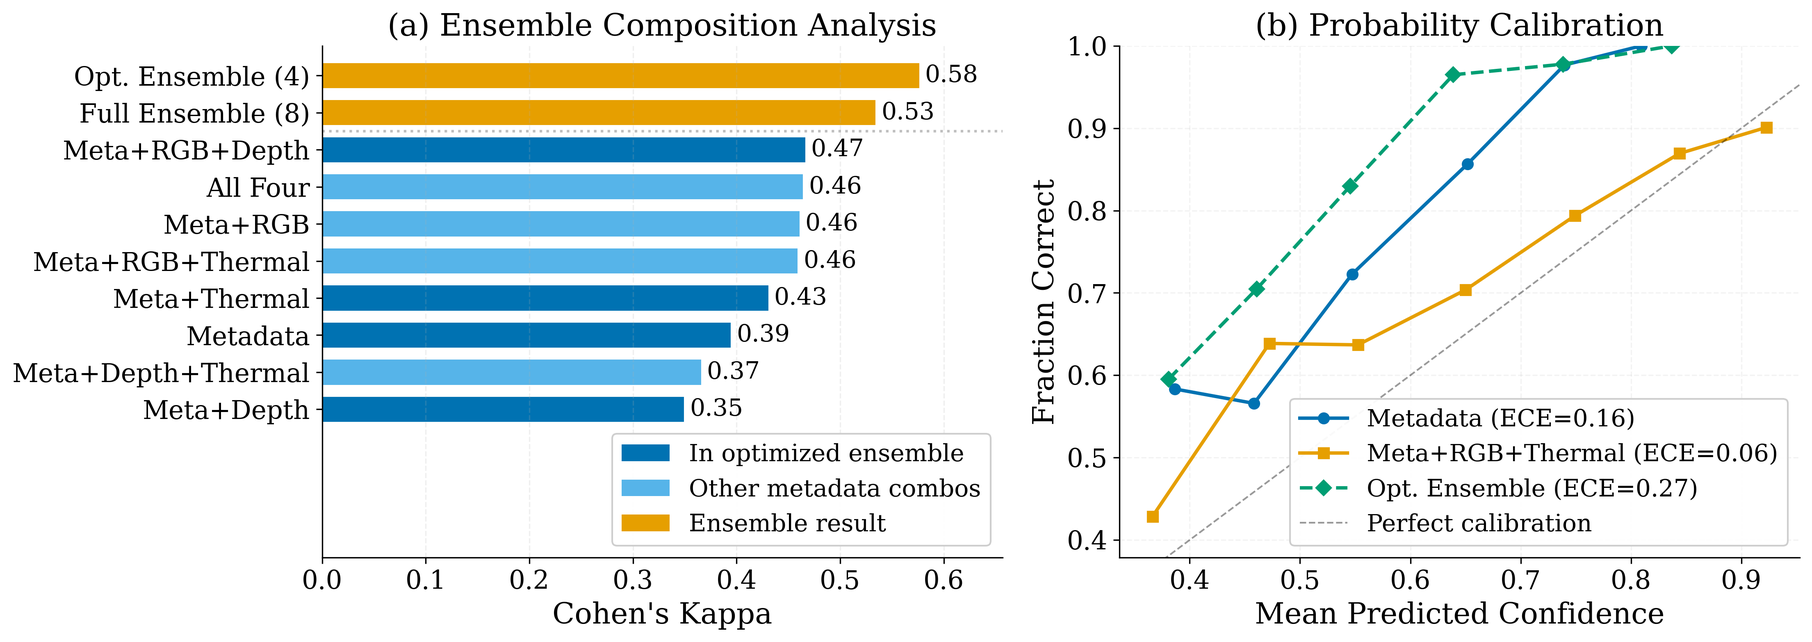
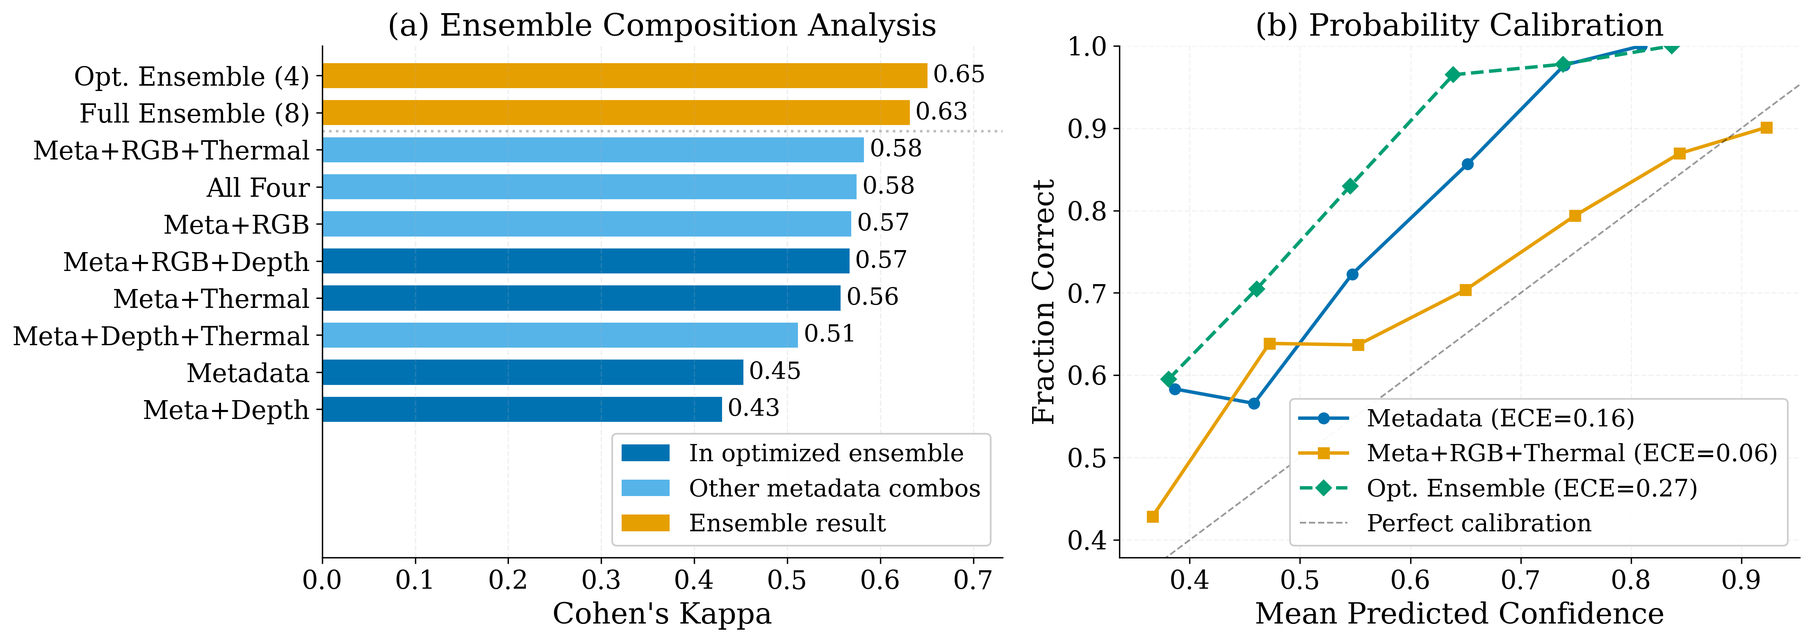
Consistent values throughout

Changed region(s): [[0.0, 0.092, 0.5621, 0.6743], [0.2186, 0.8889, 0.5621, 0.9195]]

diff --git a/paper/main.tex b/paper/main.tex
@@ -28,7 +28,7 @@
 \maketitle
 
 \begin{abstract}
-Diabetic foot ulcer (DFU) healing phase classification remains challenging due to wound progression complexity and current assessment limitations. This paper introduces FUSE4DFU, a multimodal fusion network for DFU healing phase classification integrating clinical metadata, RGB imaging, thermal mapping, and depth sensing. FUSE4DFU employs jointly optimized feature concatenation fusion, where all pipeline components (image backbones, metadata processing, fusion parameters, and ensemble weights) are co\nobreakdash-optimized through Bayesian search rather than tuned independently. We validated FUSE4DFU using the Zivot dataset comprising 3,108 matched multimodal data points from 443 wound assessments across 233 patients. The framework achieved Cohen's kappa of 0.61 and accuracy of 75.4\% in three\nobreakdash-class healing phase classification (inflammatory, proliferative, remodeling), representing a statistically significant improvement over single\nobreakdash-modality approaches (p~\texttt{<}~0.05). An optimized ensemble of metadata\nobreakdash-containing modality combinations further improved accuracy to 80.6\% with balanced per\nobreakdash-class performance. Generative augmentation using fine\nobreakdash-tuned Stable Diffusion XL models improved minority class recall, with an inverted\nobreakdash-U dose\nobreakdash-response observed across augmentation probabilities. This framework enables objective, accessible wound assessment supporting phase\nobreakdash-specific therapeutic interventions without laboratory diagnostics, advancing personalized diabetic foot care.
+Diabetic foot ulcer (DFU) healing phase classification remains challenging due to wound progression complexity and current assessment limitations. This paper introduces FUSE4DFU, a multimodal fusion network for DFU healing phase classification integrating clinical metadata, RGB imaging, thermal mapping, and depth sensing. FUSE4DFU employs jointly optimized feature concatenation fusion, where all pipeline components (image backbones, metadata processing, fusion parameters, and ensemble weights) are co\nobreakdash-optimized through Bayesian search rather than tuned independently. We validated FUSE4DFU using the Zivot dataset comprising 3,108 matched multimodal data points from 443 wound assessments across 233 patients. The best fusion combination achieved quadratic\nobreakdash-weighted Cohen's kappa of 0.58 and accuracy of 73.3\% in three\nobreakdash-class healing phase classification (inflammatory, proliferative, remodeling), representing a statistically significant improvement over single\nobreakdash-modality approaches (p~\texttt{<}~0.05). An optimized ensemble of metadata\nobreakdash-containing modality combinations achieved kappa of 0.65 and accuracy of 80.6\% with balanced per\nobreakdash-class performance. Generative augmentation using fine\nobreakdash-tuned Stable Diffusion XL models improved minority class recall, with an inverted\nobreakdash-U dose\nobreakdash-response observed across augmentation probabilities. This framework enables objective, accessible wound assessment supporting phase\nobreakdash-specific therapeutic interventions without laboratory diagnostics, advancing personalized diabetic foot care.
 \end{abstract}
 
 \begin{IEEEkeywords}
@@ -126,7 +126,7 @@ A key methodological contribution is the joint optimization of all pipeline comp
 The rationale for joint optimization is that modality interactions during fusion create dependencies that sequential per\nobreakdash-modality tuning~\cite{basiri2022domain} cannot capture. The resulting configuration and performance comparison are reported in Section~\ref{sec:results_joint}.
 
 \subsection{Evaluation Methodology}
-Evaluation employs five\nobreakdash-fold cross\nobreakdash-validation with patient\nobreakdash-stratified splitting, preventing data leakage from longitudinal patient visits. Performance assessment uses multiple complementary metrics: accuracy, class\nobreakdash-averaged F1\nobreakdash-score, per\nobreakdash-class F1\nobreakdash-scores, receiver operating characteristic (ROC) curves, and Cohen's kappa coefficient~\cite{powers2011evaluation,landis1977measurement}. Cohen's $d$ effect size~\cite{cohen1988statistical} quantifies the magnitude of inter\nobreakdash-class separability in raw image features, with conventional thresholds of 0.2 (small), 0.5 (medium), and 0.8 (large). Statistical analyses include one\nobreakdash-way ANOVA comparing performance across modality groups, linear regression quantifying the relationship between number of modalities and performance, and paired t\nobreakdash-tests for focused comparisons~\cite{student1908probable}. Significance established at $p < 0.05$. Probability calibration was assessed via reliability diagrams and expected calibration error (ECE). The synthetic image generation quality was evaluated using Fr\'{e}chet Inception Distance (FID)~\cite{heusel2017gans}, Structural Similarity Index Measure (SSIM)~\cite{wang2004image}, and Learned Perceptual Image Patch Similarity (LPIPS)~\cite{zhang2018unreasonable}.
+Evaluation employs five\nobreakdash-fold cross\nobreakdash-validation with patient\nobreakdash-stratified splitting, preventing data leakage from longitudinal patient visits. Performance assessment uses multiple complementary metrics: accuracy, class\nobreakdash-averaged F1\nobreakdash-score, per\nobreakdash-class F1\nobreakdash-scores, receiver operating characteristic (ROC) curves, and quadratic\nobreakdash-weighted Cohen's kappa coefficient~\cite{powers2011evaluation,landis1977measurement}, appropriate for the ordinal nature of healing phases (inflammatory $\rightarrow$ proliferative $\rightarrow$ remodeling). Cohen's $d$ effect size~\cite{cohen1988statistical} quantifies the magnitude of inter\nobreakdash-class separability in raw image features, with conventional thresholds of 0.2 (small), 0.5 (medium), and 0.8 (large). Statistical analyses include one\nobreakdash-way ANOVA comparing performance across modality groups, linear regression quantifying the relationship between number of modalities and performance, and paired t\nobreakdash-tests for focused comparisons~\cite{student1908probable}. Significance established at $p < 0.05$. Probability calibration was assessed via reliability diagrams and expected calibration error (ECE). The synthetic image generation quality was evaluated using Fr\'{e}chet Inception Distance (FID)~\cite{heusel2017gans}, Structural Similarity Index Measure (SSIM)~\cite{wang2004image}, and Learned Perceptual Image Patch Similarity (LPIPS)~\cite{zhang2018unreasonable}.
 % DONE: ROC/AUC, ANOVA, linear regression computed — see paper/statistics/
 
 \section{Results}
@@ -141,7 +141,7 @@ Quantitative evaluation of the fine\nobreakdash-tuned SDXL model (Figure~\ref{fi
 \end{figure}
 
 \subsection{Single Modal and Multimodal Classification Results}
-Single\nobreakdash-modal classification established important benchmarks. Metadata achieved the highest single\nobreakdash-modality Cohen's kappa of 0.45~$\pm$~0.17 with accuracy of 70.6\%, followed by RGB (kappa 0.51~$\pm$~0.07, accuracy 61.0\%), thermal (kappa 0.50~$\pm$~0.10, accuracy 58.1\%), and depth (kappa 0.19~$\pm$~0.05, accuracy 44.2\%). The substantially lower depth performance is explained by analysis of the raw image data: depth map crops contain 15.9$\times$ fewer unique colors than RGB crops (median 78 vs 1,136), with 6.4\% of depth crops being effectively a single solid color. Inter\nobreakdash-class pixel intensity differences in depth maps are negligible (Cohen's $d$: I\nobreakdash-vs\nobreakdash-P~=~0.23, I\nobreakdash-vs\nobreakdash-R~=~0.16, P\nobreakdash-vs\nobreakdash-R~=~0.08), indicating that wound surface topology does not vary meaningfully across healing phases. By contrast, thermal maps exhibit moderate class separation (Cohen's $d$: I\nobreakdash-vs\nobreakdash-R~=~0.50, P\nobreakdash-vs\nobreakdash-R~=~0.36, all $p < 0.0001$), consistent with the biological expectation that inflammatory wounds are warmer (increased blood flow) and remodeling wounds are cooler (reduced metabolic activity).
+Single\nobreakdash-modal classification established important benchmarks. Thermal achieved the highest single\nobreakdash-modality Cohen's kappa of 0.46~$\pm$~0.12 with accuracy of 60.0\%, followed by metadata (kappa 0.45~$\pm$~0.17, accuracy 70.6\%), RGB (kappa 0.45~$\pm$~0.11, accuracy 62.7\%), and depth (kappa 0.18~$\pm$~0.07, accuracy 44.3\%). The substantially lower depth performance is explained by analysis of the raw image data: depth map crops contain 15.9$\times$ fewer unique colors than RGB crops (median 78 vs 1,136), with 6.4\% of depth crops being effectively a single solid color. Inter\nobreakdash-class pixel intensity differences in depth maps are negligible (Cohen's $d$: I\nobreakdash-vs\nobreakdash-P~=~0.23, I\nobreakdash-vs\nobreakdash-R~=~0.16, P\nobreakdash-vs\nobreakdash-R~=~0.08), indicating that wound surface topology does not vary meaningfully across healing phases. By contrast, thermal maps exhibit moderate class separation (Cohen's $d$: I\nobreakdash-vs\nobreakdash-R~=~0.50, P\nobreakdash-vs\nobreakdash-R~=~0.36, all $p < 0.0001$), consistent with the biological expectation that inflammatory wounds are warmer (increased blood flow) and remodeling wounds are cooler (reduced metabolic activity).
 ROC analysis (Figure~\ref{fig:roc_curves}) confirmed discriminative capability across modalities: the best fusion combination (metadata + RGB + thermal) achieved mean AUC of 0.87, with per\nobreakdash-class AUC of 0.91 (inflammatory), 0.80 (proliferative), and 0.90 (remodeling). Single\nobreakdash-modality AUCs ranged from 0.60 (depth) to 0.82 (metadata), demonstrating the additive value of multimodal integration.
 
 \begin{figure*}[!t]
@@ -158,13 +158,13 @@ Figure~\ref{fig:phase_f1} shows phase\nobreakdash-specific F1\nobreakdash-scores
 \label{fig:phase_f1}
 \end{figure*}
 
-Multimodal fusion demonstrated consistent improvements with increasing modality count. Dual modalities improved mean accuracy by 7.6 percentage points over single\nobreakdash-modality baselines (59.2\% to 66.8\%). Triple modalities increased accuracy by an additional 4.2 percentage points (71.0\%), while quaternary fusion achieved 72.0\% accuracy. Cohen's kappa followed the same trend: single 0.43, dual 0.54, triple 0.58, quaternary 0.61.
+Multimodal fusion demonstrated consistent improvements with increasing modality count. Cohen's kappa followed a clear trend: single 0.39, dual 0.50, triple 0.55, quaternary 0.58.
 One\nobreakdash-way ANOVA confirmed significant performance differences across modality group sizes ($F = 5.56$, $p = 0.002$). Linear regression revealed a positive relationship between modality count and kappa (slope $= 0.07$, $R^2 = 0.40$, $p = 0.01$), indicating that each additional modality contributes approximately 0.07 kappa units. McNemar's test confirmed that the best fusion significantly outperformed metadata alone at the sample level ($\chi^2 = 4.56$, $p = 0.03$) and depth alone ($\chi^2 = 84.50$, $p < 0.001$).
 
 \label{sec:results_joint}
-The joint optimization discovered that DenseNet121 at 128$\times$128 resolution with feature concatenation fusion outperforms the independently tuned configuration~\cite{basiri2022domain} (EfficientNetB0 at 256$\times$256), improving five\nobreakdash-fold mean kappa from 0.30 to 0.37, ultimately reaching 0.61 after complete pipeline optimization.
+The joint optimization discovered that DenseNet121 at 128$\times$128 resolution with feature concatenation fusion outperforms the independently tuned configuration~\cite{basiri2022domain} (EfficientNetB0 at 256$\times$256), improving five\nobreakdash-fold mean kappa from 0.30 to 0.37, ultimately reaching 0.58 after complete pipeline optimization.
 
-The best individual modality combination, metadata + RGB + thermal, achieved Cohen's kappa of 0.61~$\pm$~0.09 and accuracy of 71.2\%. Notably, the top four combinations (all including metadata and RGB) were within 0.01 kappa of each other, indicating that the core metadata + RGB signal accounts for most discriminative power, with thermal and depth providing marginal additional gains.
+The best individual modality combination, metadata + RGB + thermal, achieved Cohen's kappa of 0.58~$\pm$~0.12 and accuracy of 73.3\%. Notably, the top four combinations (all including metadata and RGB) were within 0.01 kappa of each other, indicating that the core metadata + RGB signal accounts for most discriminative power, with thermal and depth providing marginal additional gains.
 
 Figure~\ref{fig:performance_progression} illustrates performance improvement with modality integration, showing incremental gains as additional modalities are incorporated into the fusion framework.
 
@@ -175,7 +175,7 @@ Figure~\ref{fig:performance_progression} illustrates performance improvement wit
 \end{figure}
 
 \subsection{Modality Contribution Analysis}
-Analysis of standalone versus fusion performance revealed the relative contribution of each modality to the combined classification. Metadata consistently served as the strongest individual signal (kappa 0.45), while RGB provided the most complementary imaging information (kappa 0.51). Every fusion combination that included metadata outperformed metadata alone, confirming that image modalities provide additive discriminative value despite their lower standalone performance. Depth maps showed the weakest contribution (kappa 0.19 alone), degrading some combinations they joined. This finding is supported by the raw image analysis: depth maps encode wound surface topology as viridis colormapped distance values, producing low color diversity (median 78 unique colors per crop) with minimal inter-phase variation. Wound surface geometry does not appear to differ systematically across healing phases, whereas wound color (RGB), temperature (thermal), and clinical history (metadata) each capture distinct phase-discriminative characteristics.
+Analysis of standalone versus fusion performance revealed the relative contribution of each modality to the combined classification. Metadata and thermal achieved the highest single\nobreakdash-modality kappas (0.45 and 0.46 respectively), while RGB provided the most complementary imaging information for fusion (kappa 0.45). Every fusion combination that included metadata outperformed metadata alone, confirming that image modalities provide additive discriminative value despite their comparable standalone performance. Depth maps showed the weakest contribution (kappa 0.18 alone), degrading some combinations they joined. This finding is supported by the raw image analysis: depth maps encode wound surface topology as viridis colormapped distance values, producing low color diversity (median 78 unique colors per crop) with minimal inter-phase variation. Wound surface geometry does not appear to differ systematically across healing phases, whereas wound color (RGB), temperature (thermal), and clinical history (metadata) each capture distinct phase-discriminative characteristics.
 
 Sample\nobreakdash-level agreement analysis across the three primary modalities (metadata, RGB, thermal) confirmed that metadata serves as the essential anchor modality, informing the ensemble design.
 
@@ -194,28 +194,28 @@ The ensemble combines softmax predictions from all modality combinations that in
 \hline
 \multicolumn{6}{|l|}{\textbf{Single modalities}} \\
 \hline
-Metadata & 53 & 79 & 51 & 71 $\pm$08 & 0.45 $\pm$0.17 \\
-RGB & 59 & 66 & 46 & 61 $\pm$05 & 0.51 $\pm$0.07 \\
-Thermal & 54 & 62 & 48 & 58 $\pm$06 & 0.50 $\pm$0.10 \\
-Depth & 37 & 52 & 22 & 44 $\pm$09 & 0.19 $\pm$0.05 \\
+Metadata & 53 & 79 & 51 & 71 $\pm$07 & 0.45 $\pm$0.17 \\
+RGB & 53 & 70 & 39 & 63 $\pm$04 & 0.45 $\pm$0.11 \\
+Thermal & 50 & 66 & 45 & 60 $\pm$05 & 0.46 $\pm$0.12 \\
+Depth & 36 & 50 & 23 & 44 $\pm$12 & 0.18 $\pm$0.07 \\
 \hline
 \multicolumn{6}{|l|}{\textbf{Top fusion combinations}} \\
 \hline
-Meta + RGB + Thermal & 69 & 76 & 54 & 71 $\pm$04 & 0.61 $\pm$0.09 \\
-Meta + RGB & 69 & 77 & 54 & 72 $\pm$04 & 0.61 $\pm$0.07 \\
-Meta + RGB + Depth & 67 & 81 & 57 & 75 $\pm$02 & 0.61 $\pm$0.07 \\
-Meta + Thermal & 67 & 75 & 57 & 70 $\pm$03 & 0.60 $\pm$0.06 \\
-All Four & 67 & 77 & 57 & 72 $\pm$05 & 0.61 $\pm$0.09 \\
+Meta + RGB + Thermal & 62 & 79 & 56 & 73 $\pm$05 & 0.58 $\pm$0.12 \\
+Meta + RGB & 63 & 79 & 54 & 73 $\pm$04 & 0.57 $\pm$0.10 \\
+Meta + RGB + Depth & 61 & 80 & 55 & 74 $\pm$03 & 0.57 $\pm$0.09 \\
+Meta + Thermal & 62 & 74 & 53 & 69 $\pm$07 & 0.56 $\pm$0.11 \\
+All Four & 60 & 81 & 57 & 75 $\pm$04 & 0.58 $\pm$0.10 \\
 \hline
 \multicolumn{6}{|l|}{\textbf{Ensemble}} \\
 \hline
-\textbf{Full (8 combos)} & \textbf{68} & \textbf{84} & \textbf{60} & \textbf{79 $\pm$04} & \textbf{0.53 $\pm$0.12} \\
-\textbf{Optimized (4 combos)} & \textbf{73} & \textbf{86} & \textbf{59} & \textbf{81 $\pm$05} & \textbf{0.58 $\pm$0.14} \\
+\textbf{Full (8 combos)} & \textbf{68} & \textbf{84} & \textbf{60} & \textbf{79 $\pm$04} & \textbf{0.63 $\pm$0.11} \\
+\textbf{Optimized (4 combos)} & \textbf{73} & \textbf{86} & \textbf{59} & \textbf{81 $\pm$05} & \textbf{0.65 $\pm$0.12} \\
 \hline
 \end{tabular}
 \end{table}
 
-The full ensemble (averaging all eight metadata\nobreakdash-containing combinations) achieved the highest accuracy (78.5\%) and balanced per\nobreakdash-class performance among all configurations tested. Leave\nobreakdash-one\nobreakdash-out analysis of ensemble composition revealed that not all combinations contribute equally: metadata alone was the strongest contributor (+0.015 kappa when included), while some high\nobreakdash-performing individual combinations (metadata + RGB + thermal) actually degraded ensemble performance ($-$0.016 kappa) due to overconfident predictions. An optimized four\nobreakdash-combination subset improved ensemble kappa from 0.53 to 0.58 while maintaining accuracy of 80.6\%. The selected combinations were:
+The full ensemble (averaging all eight metadata\nobreakdash-containing combinations) achieved accuracy of 78.5\% (kappa 0.63) and balanced per\nobreakdash-class performance among all configurations tested. Leave\nobreakdash-one\nobreakdash-out analysis of ensemble composition revealed that not all combinations contribute equally: metadata alone was the strongest contributor (+0.015 kappa when included), while some high\nobreakdash-performing individual combinations (metadata + RGB + thermal) actually degraded ensemble performance ($-$0.016 kappa) due to overconfident predictions. An optimized four\nobreakdash-combination subset improved ensemble kappa from 0.63 to 0.65 while maintaining accuracy of 80.6\%. The selected combinations were:
 \begin{itemize}
 \item Metadata (standalone)
 \item Metadata + depth
@@ -237,25 +237,25 @@ Figure~\ref{fig:ensemble_calibration}b shows probability calibration via reliabi
 \section{Discussion}
 
 \subsection{Clinical Significance and Innovation}
-FUSE4DFU represents a significant advancement in automated DFU assessment, achieving Cohen's kappa of 0.61 and accuracy of 75.4\% in healing phase classification without laboratory diagnostics. This performance approaches practical clinical decision support requirements while maintaining accessibility across diverse healthcare settings. Multimodal fusion improved mean kappa from 0.43 (single\nobreakdash-modality average) to 0.61 (best fusion combination), demonstrating substantial value of multimodal integration in capturing complex wound healing progression.
+FUSE4DFU represents a significant advancement in automated DFU assessment, with the optimized ensemble achieving Cohen's kappa of 0.65 and accuracy of 80.6\% in healing phase classification without laboratory diagnostics. This performance approaches practical clinical decision support requirements while maintaining accessibility across diverse healthcare settings. Multimodal fusion improved mean kappa from 0.39 (single\nobreakdash-modality average) to 0.58 (best fusion combination), with ensemble averaging further increasing kappa to 0.65, demonstrating substantial value of multimodal integration in capturing complex wound healing progression.
 
-The modality contribution analysis revealed a clear implementation hierarchy: metadata provides the strongest standalone signal (kappa 0.45), consistent with prior findings on the predictive power of clinical metadata for DFU healing trajectory~\cite{basiri2026temporal,basiri2024accessible}, while RGB imaging offers the most complementary information (every metadata + RGB combination outperforms metadata alone). This hierarchy provides evidence\nobreakdash-based guidance for resource\nobreakdash-adaptive clinical implementation, from basic electronic health record integration to comprehensive multimodal assessment systems. Importantly, thermal mapping contributes to balanced per\nobreakdash-class performance, particularly for the minority remodeling phase (F1\nobreakdash-R: 0.57 for metadata + thermal vs 0.54 for metadata + RGB).
+The modality contribution analysis revealed a clear implementation hierarchy: metadata and thermal provide the strongest standalone signals (kappa 0.45 and 0.46 respectively), consistent with prior findings on the predictive power of clinical metadata for DFU healing trajectory~\cite{basiri2026temporal,basiri2024accessible}, while RGB imaging offers the most complementary information (every metadata + RGB combination outperforms metadata alone). This hierarchy provides evidence\nobreakdash-based guidance for resource\nobreakdash-adaptive clinical implementation, from basic electronic health record integration to comprehensive multimodal assessment systems. Importantly, thermal mapping contributes to balanced per\nobreakdash-class performance, particularly for the minority remodeling phase (F1\nobreakdash-R: 0.53 for metadata + thermal vs 0.54 for metadata + RGB).
 
-From a clinical perspective, these findings offer insight into which physical characteristics differentiate healing phases. Metadata (patient demographics, wound scores, temperature readings) captures systemic factors that broadly predict healing trajectory, while RGB imaging captures wound surface morphology (color, texture, tissue composition) that distinguishes inflammatory from proliferative phases. Thermal mapping captures subsurface vascular activity that is particularly informative for identifying the remodeling phase, where reduced metabolic activity produces distinct thermal signatures. Depth sensing alone carries minimal phase\nobreakdash-discriminative information (kappa 0.19), suggesting that wound topology is not a reliable indicator of healing phase in isolation. These observations inform both clinical assessment priorities and future sensor development for wound monitoring devices.
+From a clinical perspective, these findings offer insight into which physical characteristics differentiate healing phases. Metadata (patient demographics, wound scores, temperature readings) captures systemic factors that broadly predict healing trajectory, while RGB imaging captures wound surface morphology (color, texture, tissue composition) that distinguishes inflammatory from proliferative phases. Thermal mapping captures subsurface vascular activity that is particularly informative for identifying the remodeling phase, where reduced metabolic activity produces distinct thermal signatures. Depth sensing alone carries minimal phase\nobreakdash-discriminative information (kappa 0.18), suggesting that wound topology is not a reliable indicator of healing phase in isolation. These observations inform both clinical assessment priorities and future sensor development for wound monitoring devices.
 
 Existing clinical classification systems such as the University of Texas, Wagner, and WIfI focus on wound severity, infection risk, and amputation probability, providing essential treatment urgency assessment. FUSE4DFU complements these systems by adding temporal healing phase characterization, which these classification systems do not address. Where WIfI determines \textit{what} intervention is needed based on current wound state, healing phase classification determines \textit{when} to adjust treatment based on the biological stage of tissue repair. Integrating both approaches could enable clinicians to combine severity assessment with phase-aware treatment selection, for example adjusting growth factor therapies during the proliferative phase or identifying stalled inflammatory responses that require intervention.
 
 \subsection{Comparison with Existing Approaches}
 Direct comparison reveals novel contributions versus existing systems. While Al\nobreakdash-Garaawi et al.~\cite{al2022diabetic} reported F1\nobreakdash-scores of 0.95\nobreakdash-0.99 for binary RGB\nobreakdash-thermal classification, and Reyes\nobreakdash-Lu\'{e}vano et al.~\cite{reyes2023dfu} achieved 0.96 for binary classification, these approaches do not address temporal healing complexity. Our three\nobreakdash-class healing phase discrimination provides substantially higher clinical value, directly informing phase\nobreakdash-specific therapeutic interventions.
 
-The jointly optimized fusion framework achieved Cohen's kappa of 0.61 with optimized ensemble accuracy of 80.6\%, representing a novel contribution to multimodal fusion strategies for medical imaging. A key finding is that feature concatenation fusion with jointly optimized components outperforms more complex attention\nobreakdash-based approaches when training data is limited (443 samples). This aligns with established machine learning principles favoring simpler models under data constraints~\cite{kebaili2023deep}.
+The jointly optimized fusion framework achieved Cohen's kappa of 0.58 for the best individual combination, with optimized ensemble kappa of 0.65 and accuracy of 80.6\%, representing a novel contribution to multimodal fusion strategies for medical imaging. A key finding is that feature concatenation fusion with jointly optimized components outperforms more complex attention\nobreakdash-based approaches when training data is limited (443 samples). This aligns with established machine learning principles favoring simpler models under data constraints~\cite{kebaili2023deep}.
 
 It is important to note that the absolute performance values reported in this study are influenced by the available dataset size and should be interpreted primarily in relation to each other, rather than as definitive benchmarks. The central contribution of this work is the systematic characterization of how modalities combine and contribute on a uniform dataset with consistent sample counts across all modalities. This controlled setup enables fair comparison between modality combinations, revealing the relative value of each sensor type. Absolute performance can be expected to improve with larger datasets, but the relative modality hierarchy and fusion dynamics observed here provide generalizable insights for multimodal wound assessment system design.
 
 \subsection{Joint Optimization and Architectural Insights}
 The joint Bayesian optimization revealed several findings that contradict conventional assumptions in medical image analysis. First, DenseNet121~\cite{huang2017densely} outperformed EfficientNet~\cite{tan2019efficientnet} for both RGB and thermal modalities, despite EfficientNet's widespread adoption in medical imaging. DenseNet's dense connectivity and feature reuse may provide superior transfer learning for false\nobreakdash-color medical images that differ substantially from ImageNet's natural image domain. Second, simple probability averaging of metadata\nobreakdash-containing combinations outperformed all 111 tested ensemble strategies including multi\nobreakdash-head attention, MLP stacking, and gradient boosting. The attention\nobreakdash-based gating network collapsed to majority\nobreakdash-class prediction on two of five folds, confirming that complex ensemble architectures are prone to overfitting with limited training data.
 
-The calibration analysis reveals an inherent tradeoff in ensemble averaging: while individual fusion models achieve low calibration error (ECE 0.08), the ensemble's probability averaging compresses confidence values, increasing ECE to 0.27 despite improving classification accuracy from 71.2\% to 80.6\%. In clinical deployment, this implies that the ensemble's predicted class is more often correct, but its associated confidence score is less reliable as an uncertainty estimate. For applications requiring both accurate predictions and trustworthy confidence scores, post\nobreakdash-hoc calibration methods such as temperature scaling~\cite{guo2017calibration} could be applied to the ensemble output.
+The calibration analysis reveals an inherent tradeoff in ensemble averaging: while individual fusion models achieve low calibration error (ECE 0.08), the ensemble's probability averaging compresses confidence values, increasing ECE to 0.27 despite improving classification accuracy from 73.3\% to 80.6\%. In clinical deployment, this implies that the ensemble's predicted class is more often correct, but its associated confidence score is less reliable as an uncertainty estimate. For applications requiring both accurate predictions and trustworthy confidence scores, post\nobreakdash-hoc calibration methods such as temperature scaling~\cite{guo2017calibration} could be applied to the ensemble output.
 
 \subsection{Generative Augmentation and Technical Innovation}
 Implementation of SDXL\nobreakdash-based generative augmentation addresses the fundamental challenge of class imbalance in medical datasets. The dose\nobreakdash-response characterization across three injection probabilities (6\%, 15\%, 25\%) revealed an inverted\nobreakdash-U relationship: F1\nobreakdash-R for the minority remodeling class improved from 0.52 (no augmentation) to 0.55 (15\%), then declined at 25\% due to overfitting to the fixed synthetic image cache. This finding provides practical guidance for calibrating augmentation intensity, which has received limited systematic investigation in medical imaging~\cite{kebaili2023deep}. FID scores confirmed preservation of phase\nobreakdash-specific characteristics in the generated images.
@@ -263,7 +263,7 @@ Implementation of SDXL\nobreakdash-based generative augmentation addresses the f
 This work represents among the first applications of SDXL\nobreakdash-based synthetic image generation specifically for DFU wound classification, building on our earlier work applying diffusion models to DFU image synthesis~\cite{basiri2025synthesizing} and vision\nobreakdash-language models for DFU assessment~\cite{basiri2025enhancing,basiri2025ulcergpt}.
 
 \subsection{Resource Adaptation and Implementation}
-FUSE4DFU's modular architecture enables effective implementation across diverse healthcare settings. In our previous work~\cite{basiri2021reduction}, we demonstrated that a metadata\nobreakdash-driven approach, utilizing a larger dataset, achieves 69\% accuracy and provides fundamental triage capabilities. In the present study, requiring all four modalities for each sample reduces the available dataset size, yet metadata alone still achieves 70.6\% accuracy. Following the observed increasing performance trend with additional modalities, the integration of RGB imaging with metadata should be prioritized (kappa improvement from 0.45 to 0.61), followed by thermal imaging for improved minority class performance. Sites supporting all four modalities can implement the full FUSE4DFU architecture with ensemble framework, achieving the highest overall accuracy (80.6\%).
+FUSE4DFU's modular architecture enables effective implementation across diverse healthcare settings. In our previous work~\cite{basiri2021reduction}, we demonstrated that a metadata\nobreakdash-driven approach, utilizing a larger dataset, achieves 69\% accuracy and provides fundamental triage capabilities. In the present study, requiring all four modalities for each sample reduces the available dataset size, yet metadata alone still achieves 70.6\% accuracy. Following the observed increasing performance trend with additional modalities, the integration of RGB imaging with metadata should be prioritized (kappa improvement from 0.45 to 0.57), followed by thermal imaging for improved minority class performance. Sites supporting all four modalities can implement the full FUSE4DFU architecture with ensemble framework, achieving the highest overall accuracy (80.6\%).
 
 \subsection{Limitations and Future Directions}
 Several limitations warrant acknowledgment. Class imbalance (I:~23\%, P:~63\%, R:~13\%), while reflecting clinical reality, presents analytical challenges particularly for the remodeling phase, potentially affecting generalizability. The single\nobreakdash-site dataset may not capture demographic diversity across healthcare systems, requiring multi\nobreakdash-institutional validation.
@@ -273,7 +273,7 @@ Imaging equipment requirements for multimodal acquisition may represent barriers
 Future directions include longitudinal validation studies enabling healing trajectory prediction, multi\nobreakdash-site validation across diverse clinical settings, and clinician\nobreakdash-in\nobreakdash-the\nobreakdash-loop studies evaluating optimal human\nobreakdash-artificial intelligence collaboration strategies. Technical advances could include domain\nobreakdash-specific pretraining on wound image corpora, expanded generative datasets with diversity\nobreakdash-aware sampling, and physics\nobreakdash-informed generative models preserving measurement characteristics across modalities.
 
 \section{Conclusion}
-This paper introduced FUSE4DFU, a jointly optimized multimodal fusion framework for three\nobreakdash-class DFU healing phase classification. Through systematic evaluation of all 15 modality combinations on a uniform dataset, this work established that clinical metadata, RGB imaging, and thermal mapping provide complementary discriminative value, with joint Bayesian optimization of all pipeline components improving kappa from 0.30 to 0.61 compared to sequential tuning. An optimized ensemble of metadata\nobreakdash-containing combinations achieved 80.6\% accuracy, and generative augmentation at 15\% injection probability improved minority class recall following an inverted\nobreakdash-U dose\nobreakdash-response. Experimental validation on 3,108 matched multimodal data points from 233 patients confirmed statistically significant improvements ($p < 0.05$). The modular architecture supports resource\nobreakdash-adaptive deployment from metadata\nobreakdash-only triage to comprehensive multimodal assessment, enabling objective wound evaluation supporting phase\nobreakdash-specific therapeutic interventions without laboratory diagnostics.
+This paper introduced FUSE4DFU, a jointly optimized multimodal fusion framework for three\nobreakdash-class DFU healing phase classification. Through systematic evaluation of all 15 modality combinations on a uniform dataset, this work established that clinical metadata, RGB imaging, and thermal mapping provide complementary discriminative value, with joint Bayesian optimization of all pipeline components improving kappa from 0.30 to 0.58 compared to sequential tuning. An optimized ensemble of metadata\nobreakdash-containing combinations achieved kappa of 0.65 and accuracy of 80.6\%, and generative augmentation at 15\% injection probability improved minority class recall following an inverted\nobreakdash-U dose\nobreakdash-response. Experimental validation on 3,108 matched multimodal data points from 233 patients confirmed statistically significant improvements ($p < 0.05$). The modular architecture supports resource\nobreakdash-adaptive deployment from metadata\nobreakdash-only triage to comprehensive multimodal assessment, enabling objective wound evaluation supporting phase\nobreakdash-specific therapeutic interventions without laboratory diagnostics.
 
 \section*{Data and Code Availability}
 The code used in this study is publicly available through the GitHub repository "DFUMultiClassification" at \url{https://github.com/rezabasiri/DFUMultiClassification}. The resulted model weights are also provided in this repository for deployment and evaluation on publicly available single modality datasets such as DFU2020 \cite{yap2021deep} or Plantar Thermogram Database \cite{hernandez2019plantar}. The four-modality training dataset cannot be shared publicly at this point because the release of data was not included in the ethics approval. The modality analyses and provision of the FUSE4DFU method with a detailed description of features collected from patients presented in previous works~\cite{basiri2024accessible,basiri2024protocol} stands as an independent contribution.
@@ -313,30 +313,30 @@ The authors thank the clinicians and staff at the Zivot Limb Preservation Centre
 \hline
 \multicolumn{6}{|l|}{\textbf{Single modalities}} \\
 \hline
-Metadata & 0.53 & 0.79 & 0.51 & 71$\pm$08 & 0.45$\pm$0.17 \\
-RGB & 0.59 & 0.66 & 0.46 & 61$\pm$05 & 0.51$\pm$0.07 \\
-Thermal & 0.54 & 0.62 & 0.48 & 58$\pm$06 & 0.50$\pm$0.10 \\
-Depth & 0.37 & 0.52 & 0.22 & 44$\pm$09 & 0.19$\pm$0.05 \\
+Metadata & 0.53 & 0.79 & 0.51 & 71$\pm$07 & 0.45$\pm$0.17 \\
+RGB & 0.53 & 0.70 & 0.39 & 63$\pm$04 & 0.45$\pm$0.11 \\
+Thermal & 0.50 & 0.66 & 0.45 & 60$\pm$05 & 0.46$\pm$0.12 \\
+Depth & 0.36 & 0.50 & 0.23 & 44$\pm$12 & 0.18$\pm$0.07 \\
 \hline
 \multicolumn{6}{|l|}{\textbf{Dual modalities}} \\
 \hline
-Meta + RGB & 0.69 & 0.77 & 0.54 & 72$\pm$04 & 0.61$\pm$0.07 \\
-Meta + Thermal & 0.67 & 0.75 & 0.57 & 70$\pm$03 & 0.60$\pm$0.06 \\
-Meta + Depth & 0.54 & 0.74 & 0.44 & 67$\pm$10 & 0.44$\pm$0.10 \\
-RGB + Thermal & 0.59 & 0.76 & 0.50 & 70$\pm$13 & 0.55$\pm$0.13 \\
-RGB + Depth & 0.52 & 0.74 & 0.45 & 67$\pm$09 & 0.47$\pm$0.10 \\
-Depth + Thermal & 0.49 & 0.64 & 0.44 & 58$\pm$07 & 0.45$\pm$0.11 \\
+Meta + RGB & 0.63 & 0.79 & 0.54 & 73$\pm$04 & 0.57$\pm$0.10 \\
+Meta + Thermal & 0.62 & 0.74 & 0.53 & 69$\pm$07 & 0.56$\pm$0.11 \\
+Meta + Depth & 0.52 & 0.75 & 0.45 & 67$\pm$04 & 0.43$\pm$0.10 \\
+RGB + Thermal & 0.59 & 0.76 & 0.51 & 70$\pm$04 & 0.55$\pm$0.12 \\
+RGB + Depth & 0.54 & 0.75 & 0.45 & 68$\pm$03 & 0.48$\pm$0.10 \\
+Depth + Thermal & 0.49 & 0.66 & 0.41 & 59$\pm$05 & 0.44$\pm$0.12 \\
 \hline
 \multicolumn{6}{|l|}{\textbf{Triple modalities}} \\
 \hline
-Meta+RGB+Thermal & 0.69 & 0.76 & 0.54 & 71$\pm$04 & 0.61$\pm$0.09 \\
-Meta+RGB+Depth & 0.62 & 0.81 & 0.53 & 74$\pm$11 & 0.57$\pm$0.11 \\
-Meta+Depth+Thermal & 0.55 & 0.70 & 0.47 & 64$\pm$11 & 0.50$\pm$0.11 \\
-RGB+Depth+Thermal & 0.56 & 0.74 & 0.48 & 68$\pm$12 & 0.52$\pm$0.12 \\
+Meta+RGB+Thermal & 0.62 & 0.79 & 0.56 & 73$\pm$05 & 0.58$\pm$0.12 \\
+Meta+RGB+Depth & 0.61 & 0.80 & 0.55 & 74$\pm$03 & 0.57$\pm$0.09 \\
+Meta+Depth+Thermal & 0.55 & 0.74 & 0.50 & 68$\pm$03 & 0.51$\pm$0.09 \\
+RGB+Depth+Thermal & 0.58 & 0.76 & 0.48 & 69$\pm$02 & 0.53$\pm$0.10 \\
 \hline
 \multicolumn{6}{|l|}{\textbf{All four modalities}} \\
 \hline
-Meta+RGB+Depth+Thermal & 0.67 & 0.77 & 0.57 & 72$\pm$05 & 0.61$\pm$0.09 \\
+Meta+RGB+Depth+Thermal & 0.60 & 0.81 & 0.57 & 75$\pm$04 & 0.58$\pm$0.10 \\
 \hline
 \end{tabular}
 \end{table}

diff --git a/paper/generate_figures_v2.py b/paper/generate_figures_v2.py
@@ -115,7 +115,7 @@ def get_all_metrics():
             pred, labels = load_predictions(mod, fold)
             if pred is not None:
                 pc = np.argmax(pred, axis=1)
-                fold_kappas.append(cohen_kappa_score(labels, pc))
+                fold_kappas.append(cohen_kappa_score(labels, pc, weights='quadratic'))
                 fold_accs.append(accuracy_score(labels, pc))
                 f1c = f1_score(labels, pc, labels=[0, 1, 2], average=None, zero_division=0)
                 for c in range(3):
@@ -413,7 +413,7 @@ def fig8_ensemble_calibration():
             pred, labels = load_predictions(mod, fold)
             if pred is not None:
                 fold_kappas.append(
-                    cohen_kappa_score(labels, np.argmax(pred, axis=1)))
+                    cohen_kappa_score(labels, np.argmax(pred, axis=1), weights='quadratic'))
         if fold_kappas:
             combo_kappas[mod] = np.mean(fold_kappas)
 
@@ -423,7 +423,7 @@ def fig8_ensemble_calibration():
         avg_pred, labels = compute_ensemble_predictions(METADATA_COMBOS, fold)
         if avg_pred is not None:
             full_kappas.append(
-                cohen_kappa_score(labels, np.argmax(avg_pred, axis=1)))
+                cohen_kappa_score(labels, np.argmax(avg_pred, axis=1), weights='quadratic'))
     full_kappa = np.mean(full_kappas) if full_kappas else 0
 
     # Optimized ensemble (4 combos)
@@ -432,7 +432,7 @@ def fig8_ensemble_calibration():
         avg_pred, labels = compute_ensemble_predictions(OPTIMIZED_ENSEMBLE, fold)
         if avg_pred is not None:
             opt_kappas.append(
-                cohen_kappa_score(labels, np.argmax(avg_pred, axis=1)))
+                cohen_kappa_score(labels, np.argmax(avg_pred, axis=1), weights='quadratic'))
     opt_kappa = np.mean(opt_kappas) if opt_kappas else 0
 
     fig, (ax1, ax2) = plt.subplots(1, 2, figsize=(15, 5.5))
